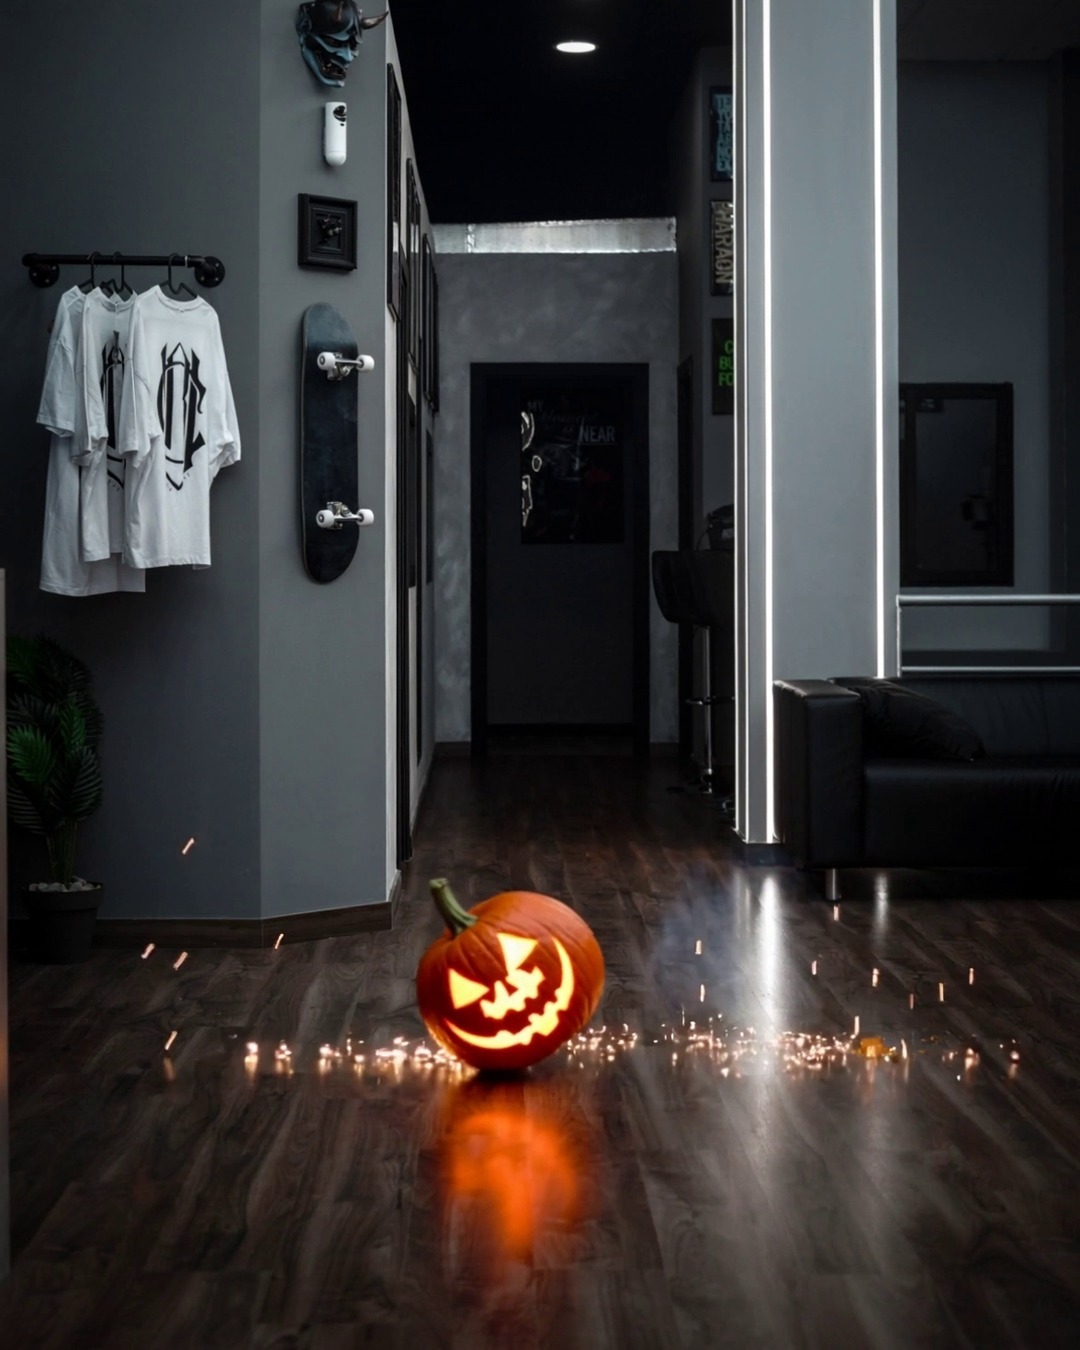
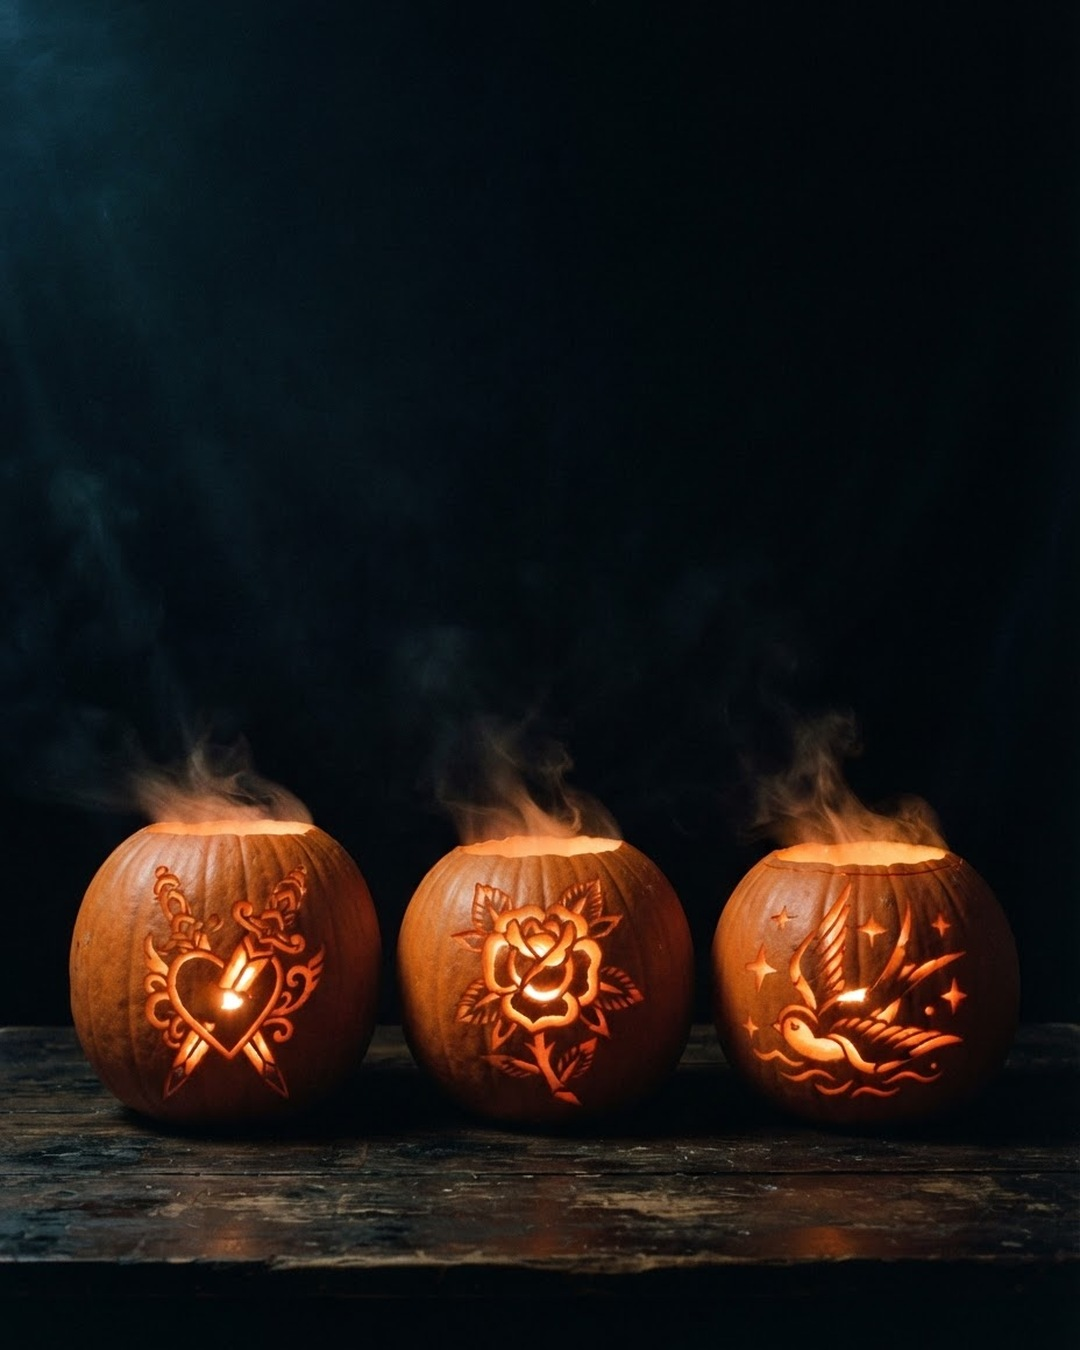
Post Halloween: fondo de calabazas talladas con flash de tatuaje
Claude-Session: https://claude.ai/code/session_017Rsphfz7JrN2HBs3pyC4Qn

diff --git a/posts/halloween-2026/edit/post.html b/posts/halloween-2026/edit/post.html
@@ -1,14 +1,13 @@
 <!doctype html>
 <html lang="es"><head><meta charset="utf-8">
 <link rel="stylesheet" href="../../_base/base.css">
-<!-- Post Halloween alternativo (21/10/2026): fotograma de la calabaza encendida en el estudio (clip propio de reels/PHARAON_REEL_CALABAZA_HALLOWEEN). Canva sin cuota de IA. -->
+<!-- Post Halloween alternativo (21/10/2026): calabazas talladas con flash de tatuaje (corazón con daga, rosa, golondrina), generadas con Magnific. Canva sin cuota de IA. -->
 <style>
 :root { --naranja: #FF8A1F; }
 .slide { padding: 0; }
 .fondo { position:absolute; inset:0; background:url(fondo.jpg) center/cover; }
 .velo { position:absolute; inset:0; background:
-  linear-gradient(rgba(8,8,8,.92) 0%, rgba(8,8,8,.75) 30%, rgba(8,8,8,.15) 52%, rgba(8,8,8,0) 62%, rgba(8,8,8,.35) 85%, rgba(8,8,8,.85) 100%),
-  radial-gradient(ellipse at 50% 75%, rgba(0,0,0,0) 35%, rgba(0,0,0,.55) 100%); }
+  linear-gradient(rgba(8,8,8,.55) 0%, rgba(8,8,8,.2) 35%, rgba(8,8,8,0) 50%, rgba(8,8,8,0) 80%, rgba(8,8,8,.75) 92%, rgba(8,8,8,.92) 100%); }
 .top { position:absolute; left:80px; right:80px; top:80px; }
 .kicker { font-family:'Space Mono'; font-weight:700; font-size:26px; letter-spacing:8px; color:var(--naranja); }
 .titulo { font-family:'Anton'; text-transform:uppercase; color:#fff; font-size:196px; line-height:.86; margin-top:22px; }

diff --git a/reels/_base/costes-magnific.md b/reels/_base/costes-magnific.md
@@ -94,3 +94,4 @@ Hay que dejar un margen de un 10-15 % para repetir imágenes o clips que salgan 
 | 2026-10-20 | Casting de voces (15 TTS: eleven_v3 + Gemini) | audio_tts | 118 |
 | 2026-10-20 | Voces v2 (todas las B): 12 OK + 2 combinadas (6 fallidas de Gemini) | audio_tts | ~112 |
 | 2026-10-20 | Casting Adri (4 TTS) | audio_tts | 48 |
+| 2026-10-21 | Post Halloween · fondo calabazas con flash de tatuaje x2 | images_generate | 120 |
